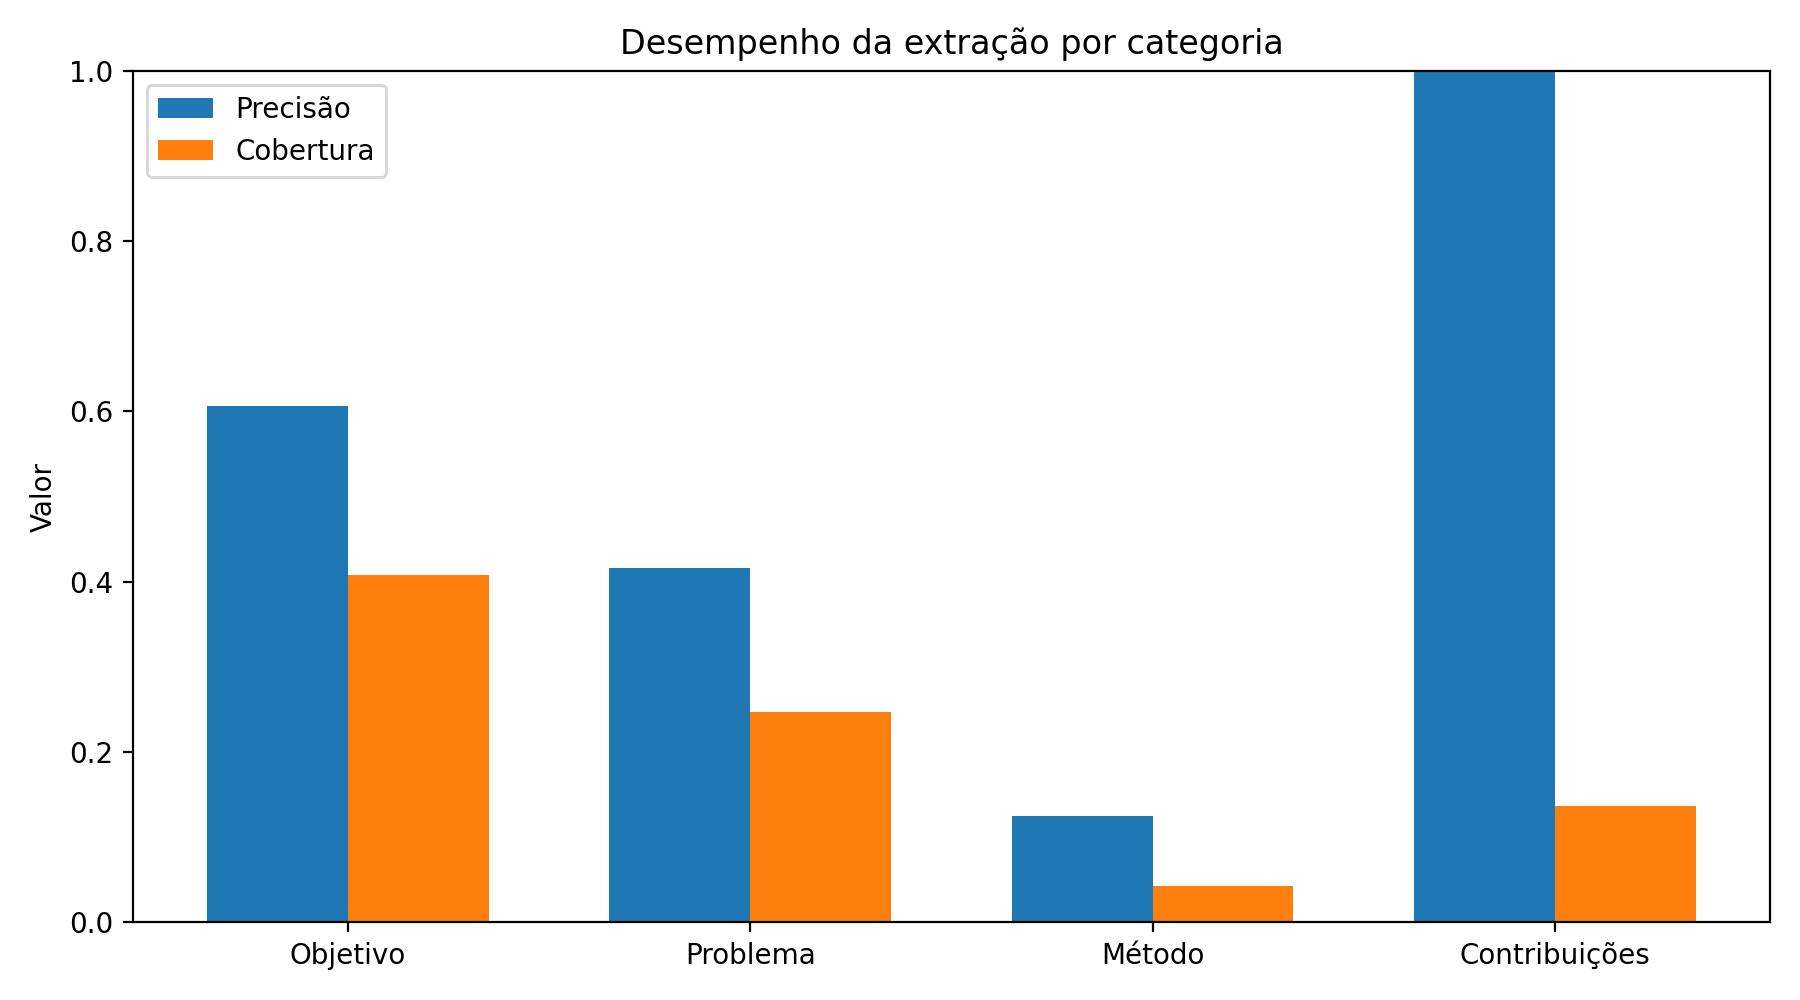
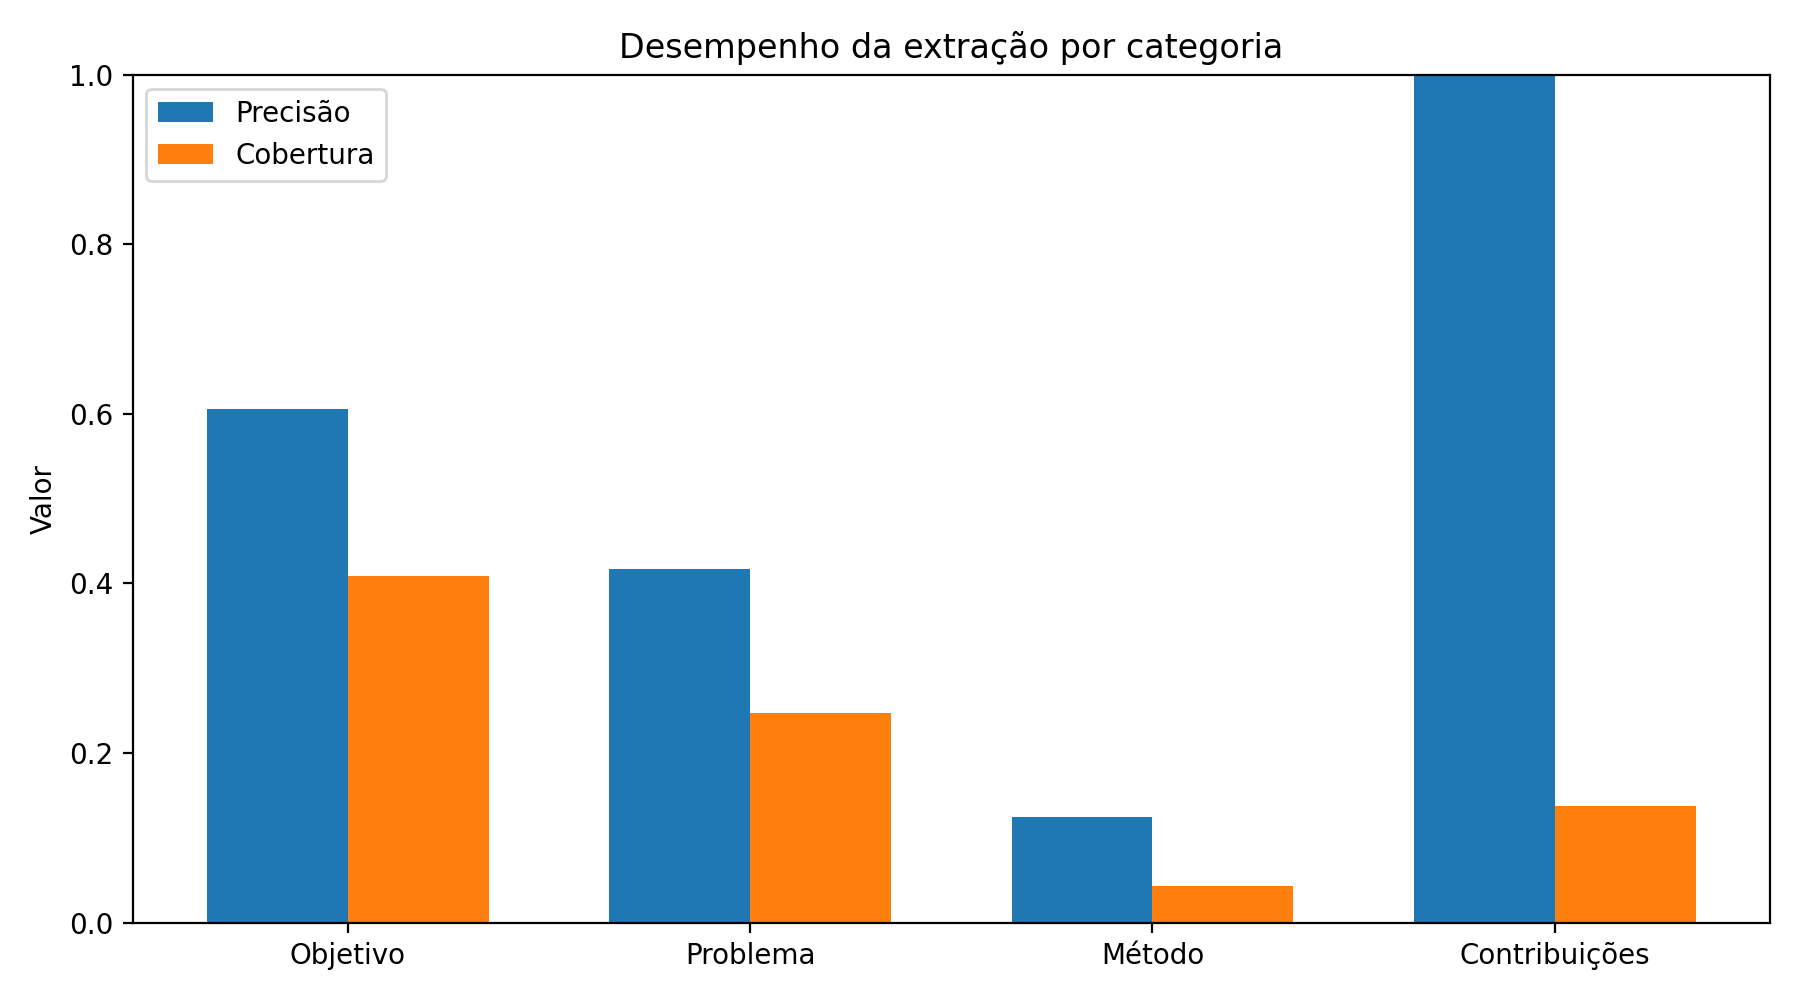
adiciona gabarito manual dos artigos demos

diff --git a/src/avaliacao.py b/src/avaliacao.py
@@ -25,7 +25,7 @@ RAIZ = Path(__file__).resolve().parent.parent
 RESULTADOS = RAIZ / "resultados"
 
 CAMINHO_PREDICOES = RESULTADOS / "etapa2_resultados.json"
-CAMINHO_GABARITO = RAIZ / "src/gabarito_manual.json"
+CAMINHO_GABARITO = RAIZ / "gabaritos_manuais/gabarito_manual.json"
 CAMINHO_METRICAS = RESULTADOS / "etapa4_metricas.json"
 CAMINHO_DETALHES = RESULTADOS / "etapa4_detalhes.csv"
 CAMINHO_GRAFICO = RESULTADOS / "etapa4_metricas.png"